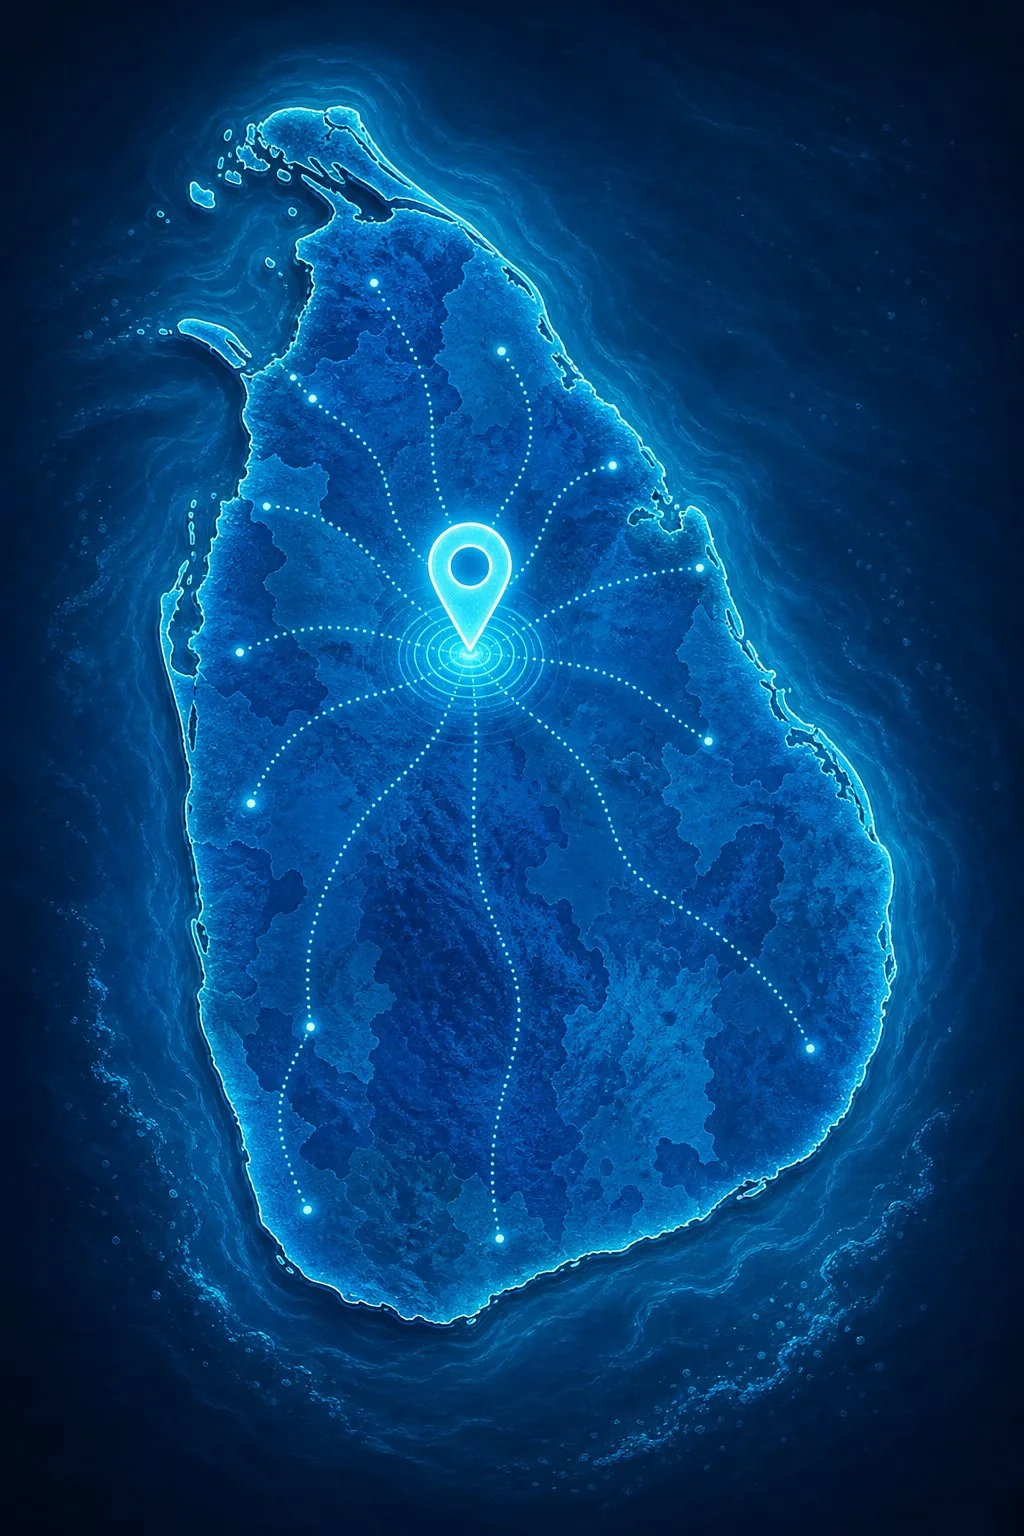
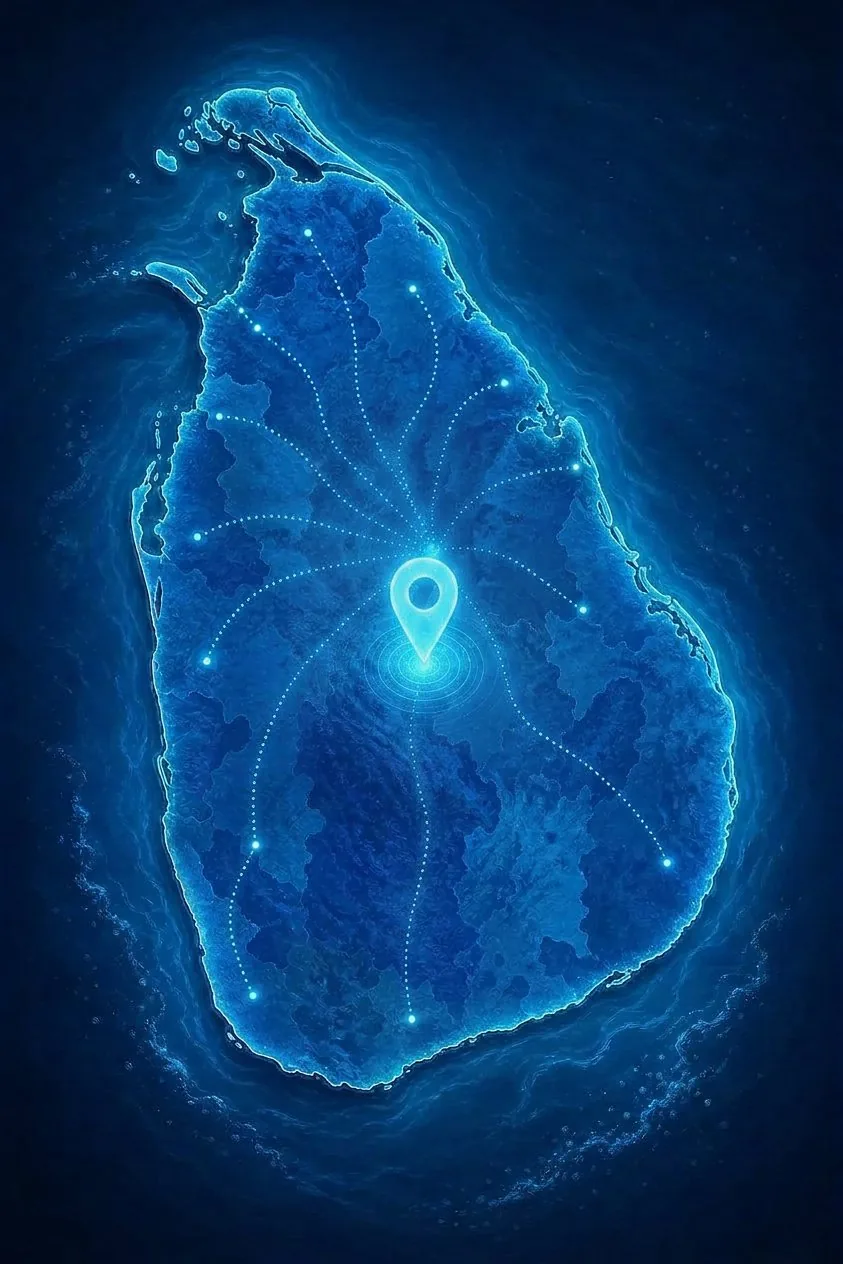
Remove service-centre illustration; place coverage pin at Galewela
- Remove AI-generated service-centre storefront image from the contact
  map card (markup, CSS rule and asset)
- Regenerate the Sri Lanka coverage map with the location marker at
  Galewela (Matale District) — the island's geographic-centre /
  north-central area, corrected from the too-far-north position
- Update alt text and intrinsic dimensions (843x1264); webp re-encoded
  at 97 KB

diff --git a/index.html b/index.html
@@ -765,9 +765,6 @@
                 </div>
 
                 <div class="map-info">
-                    <img src="assets/images/delight-water-service-centre.webp"
-                        alt="Illustration of the Delight Water Solutions service centre with water purification systems and service van"
-                        class="map-centre-img" loading="lazy" width="1344" height="896">
                     <div class="map-info-body">
                         <h3>Find Us <span class="gradient-text">on the Map</span></h3>
                         <address class="map-address">
@@ -777,8 +774,8 @@
                         </address>
                         <p class="map-hours">Open Monday – Saturday, 8:00 AM – 6:00 PM</p>
                         <img src="assets/images/delight-water-service-area.webp"
-                            alt="Stylised coverage map of Sri Lanka — Delight Water Solutions serves the whole island from Galewela"
-                            class="map-coverage-img" loading="lazy" width="1024" height="1536">
+                            alt="Stylised coverage map of Sri Lanka with location marker at Galewela — Delight Water Solutions serves the whole island"
+                            class="map-coverage-img" loading="lazy" width="843" height="1264">
                         <div class="map-actions">
                             <a href="https://www.google.com/maps/dir/?api=1&amp;destination=DELiGHT+WATER+SOLUTIONS+(PVT)+LTD,+Galewela,+Sri+Lanka"
                                 target="_blank" rel="noopener" class="btn btn-primary"

diff --git a/css/modern-styles.css b/css/modern-styles.css
@@ -640,13 +640,7 @@ textarea.form-control { min-height:120px; resize:vertical; }
     height: 100%;
     border: 0;
 }
-.map-centre-img {
-    width: 100%;
-    height: 190px;
-    object-fit: cover;
-    display: block;
-}
-.map-info-body { padding: 1.4rem 1.8rem 1.8rem; }
+.map-info-body { padding: 1.6rem 1.8rem 1.8rem; }
 .map-info h3 { color:#fff; font-size:1.35rem; margin:0 0 .75rem; }
 .map-address {
     color:#dff4ff;
